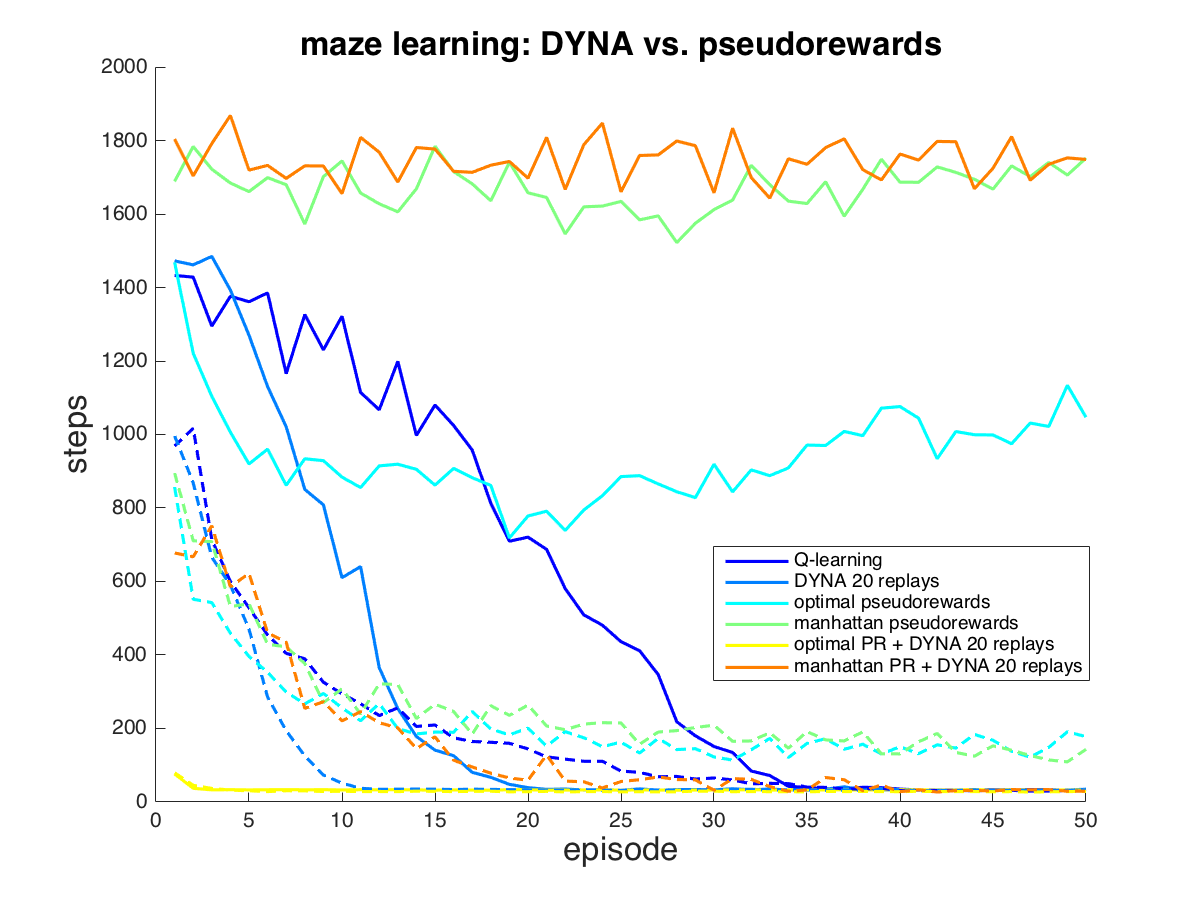
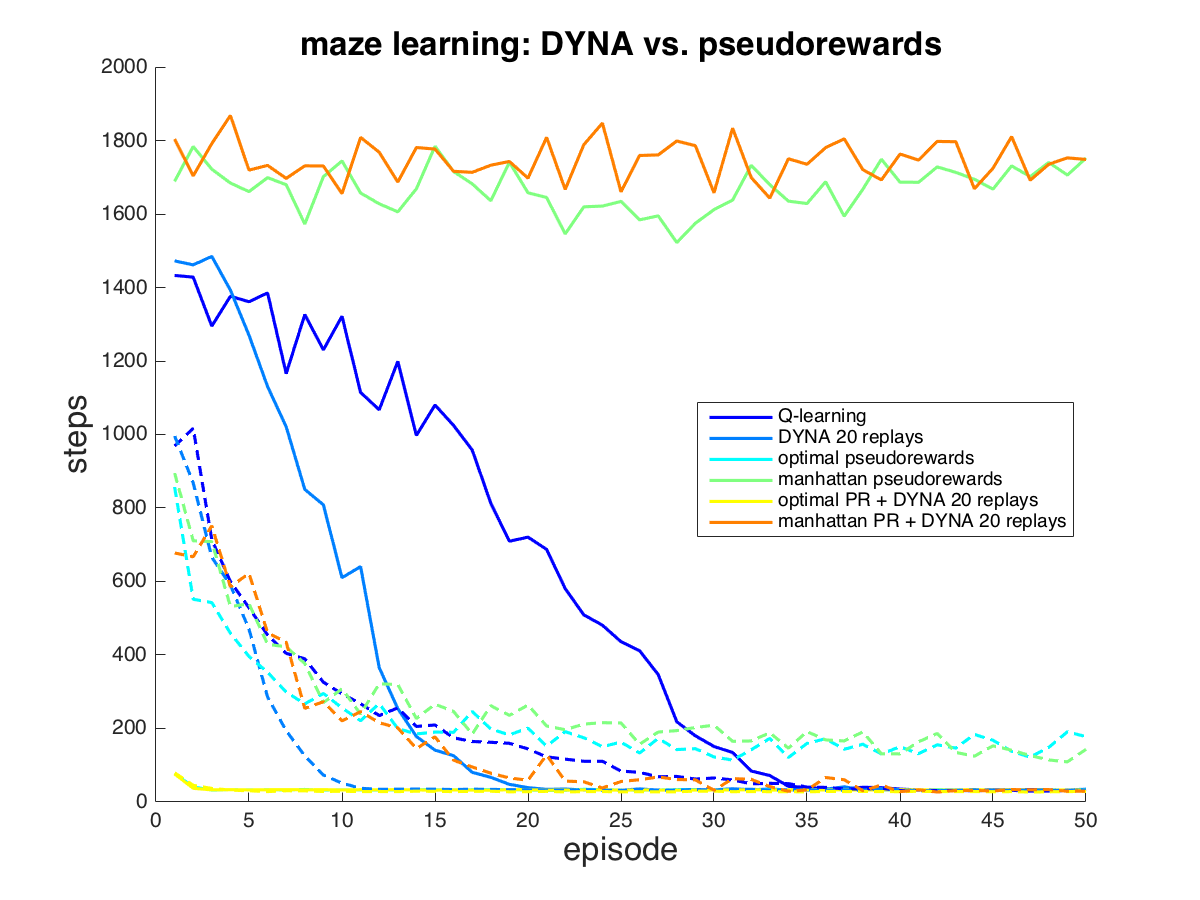
plot error fixed

diff --git a/final_report.tex b/final_report.tex
@@ -49,7 +49,7 @@ blah blah blah we need to put stuff here.
 \label{fig:mazes}
 \end{figure}
 
-To explore theories about reinforcement learning in cognition, we constructed a simple two-dimensional maze game whereby an agent was tasked with learning how to reach a terminal goal state from a start state. The terminal goal state confers the agent a reward of 1 point, and resets the agent's location to the starting point (Figure something of maze). We study two different mazes: a \textit{sparse} maze and a \textit{dense} maze. The sparse maze is easier for the agent to solve, but it is also easier for the agent to get stuck in a suboptimal path. The dense maze, on the other hand, has only one clear path to the solution; as a result, we expect heuristic-based pseudorewards to often fail to find the optimal path.
+To explore theories about reinforcement learning in cognition, we constructed a simple two-dimensional maze game whereby an agent was tasked with learning how to reach a terminal goal state from a start state. The terminal goal state confers the agent a reward of 1 point, and resets the agent's location to the starting point (Figure 1). We study two different mazes: a \textit{dense} maze (Figure 1a) and a \textit{sparse} maze (Figure 1b). The sparse maze is easier for the agent to solve, but it is also easier for the agent to get stuck in a suboptimal path. The dense maze, on the other hand, has only one clear path to the solution; as a result, we expect heuristic-based pseudorewards to often fail to find the optimal path.
 
 All of our methods are based on a common model-free reinforcement learning paradigm known as Q-learning~\cite{sutton1998reinforcement}, which learns an optimal policy $\pi^*$ over time. Let $\mathcal{S}$ be the set of states and let $\mathcal{A}$ be the set of actions. For each $(s,a) \in \mathcal{S} \times \mathcal{A}$, a value $Q(s,a)$ is learned via the following algorithm. Initially all $Q(s,a)$ are zero. At each state $s$, with probability $1 - \epsilon$, the agent chooses the action $a \in \mathcal{A}$ with the highest value $Q(s,a)$. With probability $\epsilon$ it chooses an action uniformly at random ($\epsilon$ is a hyperparameter that calibrates the explore-exploit tradeoff). Then, after completing the selected action $a$, the agent moves to $s'$ and updates $Q$ by
 
@@ -58,7 +58,7 @@ Q(s,a) \leftarrow Q(s,a) + \alpha (R(s, s') + \gamma \max_{a'} Q(s', a') - Q(s,a
 \label{eq:q-learn}
 \end{equation}
 
-where $\alpha$ is the learning rate, $R_(s, s')$ is the reward received at state $s'$, and $\gamma$ is the discount factor. Q-learning will converge with probability one to the optimal policy. 
+where $\alpha$ is the learning rate, $R(s, s')$ is the reward received at state $s'$, and $\gamma$ is the discount factor on rewards. Q-learning will converge with probability one to the optimal policy. 
 
 \subsection*{DYNA Planning}
 
@@ -95,7 +95,7 @@ For our maze environment, we use a modified Manhattan distance metric to impleme
 \begin{equation}
 F(s, s') = \gamma \Phi(s') - \Phi(s)
 \end{equation} 
-which fulfills the conditions in~\cite{ng1999policy} to be an invariant reward transformation. A comparison the pseudoreward landscape for each of the types of the pseudorewards considered is shown in Figure~\ref{fig:value-landscapes}.
+which fulfills the conditions in~\cite{ng1999policy} to be an invariant reward transformation. A comparison of the pseudoreward landscape for each of the types of the pseudorewards considered is shown in Figure~\ref{fig:value-landscapes}.
 
 In addition, we also test the sensitivity of both pseudoreward methods to additive white noise. For each pseudoreward $F(s, s')$ conferred, let
 \begin{equation}

diff --git a/code/plot_stepsVsEpisodes_final.m b/code/plot_stepsVsEpisodes_final.m
@@ -4,7 +4,7 @@ SAVE = true;
 
 plotTypes = {'models','modelsLowNoise','DYNA','PRdense','PRsparse'};
 
-for i = 1:length(plotTypes)
+for i = 2%1:length(plotTypes)
     
 plotType = plotTypes{i};
 
@@ -35,7 +35,7 @@ switch plotType
         load(['100sim_DYNAreplay-0-1-5-10-20-40-80_dense'])
         dat1 = simulation_data.steps(:,:,[1 5]);
         load(['100sim_PRoptSigma-0-1-2-4-8_dense'])
-        dat2 = simulation_data.steps(:,:,4);
+        dat2 = simulation_data.steps(:,:,1);
         load('100sim_PRmanSigma-0-1-4-8_dense')
         dat3 = simulation_data.steps(:,:,3);
         load('100sim_PRopt0+DYNA20_dense')
